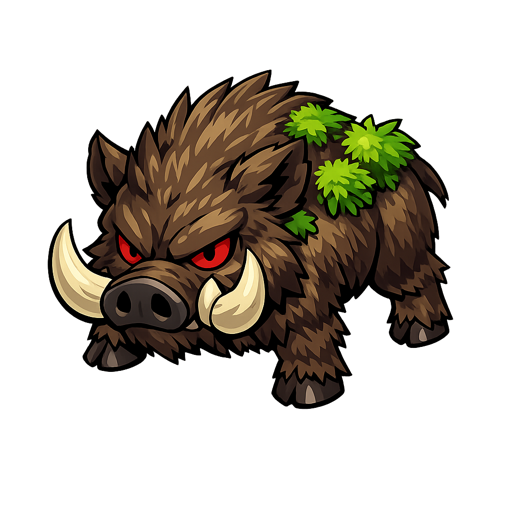
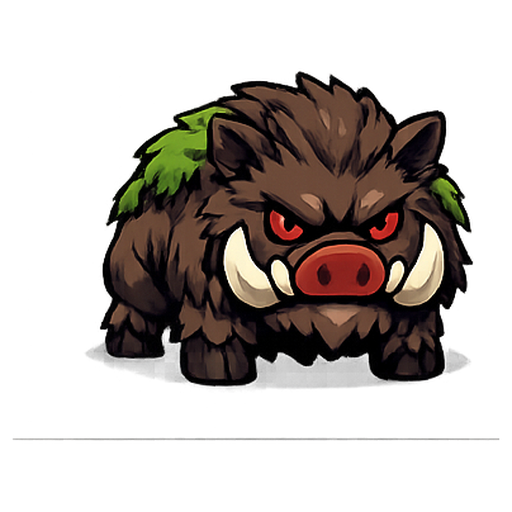
몬스터 스프라이트 개선: 슬라임/멧돼지/잔디기사 새 이미지 + 피격 프레임 추가
- 슬라임: 좌우 흔들림 idle 4프레임 + 피격 2프레임 (><표정, 찌그러짐)
- 멧돼지: 정면 고정 쿵쿵 걷기 4프레임 + 피격 2프레임
- 잔디기사: 팔다리 걷기 모션 4프레임 + 피격 2프레임 (투구 변형)
- monster.gd: 피격 프레임 재생 시스템 추가 (hit_frame_start/count)
- monster.gd: flip_h 방향 수정 (플레이어 방향 올바르게 바라봄)
- monster_spawner.gd: 슬라임/멧돼지/잔디기사 idle/hit 프레임 config 추가
- 프롬프트 문서 업데이트 (멧돼지 정면 고정, 잔디기사 팔다리 걷기)

diff --git a/docs/image_prompts.md b/docs/image_prompts.md
@@ -80,18 +80,18 @@
 >
 > Character design: An oversized mutant boar. Muscular body with dark brown coarse fur. Patches of green moss and grass growing on its back and shoulders. Two large curved tusks protruding from the mouth. Red angry eyes. Exaggerated muscular build with legs splayed outward. Thick dark outline. Chibi proportions, flat cel-shaded colors, mobile game art style. 3/4 top-down view.
 >
-> Row 1 (Frames 1-4): Gentle wobbling walk animation loop (1→2→3→4→1):
-> - Frame 1 (Neutral): Standing still, neutral pose. Legs splayed, body symmetrical.
-> - Frame 2 (Slight lean left): Body leans very slightly to the left, about 5 degrees only. Weight shifted subtly leftward. Almost the same as frame 1 but with a tiny leftward tilt.
-> - Frame 3 (Neutral): Same as frame 1. Back to center, perfectly symmetrical.
-> - Frame 4 (Slight lean right): Body leans very slightly to the right, about 5 degrees only. Mirror of frame 2. Weight shifted subtly rightward.
+> Row 1 (Frames 1-4): Stomping walk animation loop (1→2→3→4→1). The boar always faces the same direction (forward/front-facing) in all frames. Only the legs and body height change to create a heavy stomping walk:
+> - Frame 1 (Neutral): Standing still, front-facing. Legs splayed, body at normal height.
+> - Frame 2 (Left stomp): Left front leg raised slightly, right front leg planted. Body dips down very slightly on the right side (~5%). A heavy, lumbering step. Face still looking straight forward.
+> - Frame 3 (Neutral): Same as frame 1. Both legs planted, body level. Passing through neutral.
+> - Frame 4 (Right stomp): Right front leg raised slightly, left front leg planted. Body dips down very slightly on the left side (~5%). Mirror leg pose of frame 2. Face still looking straight forward.
 >
 > Row 2 (Frames 5-6: Hit reaction, Frames 7-8: empty):
-> - Frame 5 (Hit squash): Body crouches down violently — about 30% shorter and 25% wider. Eyes squeezed shut tight in pain, mouth open showing tusks. Pained expression. Legs buckled, flattened as if slammed from above.
-> - Frame 6 (Hit rebound): Body snaps back to roughly neutral height. Eyes still scrunched with a dazed/stunned look. Recovering from the hit.
+> - Frame 5 (Hit squash): Body crouches down violently — about 30% shorter and 25% wider. Eyes squeezed shut tight in pain, mouth open showing tusks. Pained expression. Legs buckled, flattened as if slammed from above. Still facing forward.
+> - Frame 6 (Hit rebound): Body snaps back to roughly neutral height. Eyes still scrunched with a dazed/stunned look. Still facing forward. Recovering from the hit.
 > - Frames 7-8: Leave completely empty (transparent).
 >
-> Important: The wobble in frames 1-4 should be very subtle. All frames must have identical dark brown fur colors, moss patches, tusks, and art style. Frames 1-4 share the same angry face. Frames 5-6 have a pained face. No glow effects, no dust, no particles. Clean solid body only.
+> Important: The boar must face the SAME direction (front-facing) in ALL 6 frames. Never show the boar turning or looking left/right. All frames must have identical dark brown fur colors, moss patches, tusks, and art style. Frames 1-4 share the same angry face. Frames 5-6 have a pained face. No glow effects, no dust, no particles. Clean solid body only.
 
 ---
 
@@ -107,18 +107,18 @@
 >
 > Character design: A humanoid knight made of woven grass and plant fiber. Armor plates of compressed green leaves and bark. Small flowers and weeds sprouting from joints and gaps in the armor. Holds a sharpened grass blade sword in right hand. T-shaped helmet visor with dark empty interior (no face visible). Thick dark outline. Chibi proportions, flat cel-shaded colors, mobile game art style. 3/4 top-down view.
 >
-> Row 1 (Frames 1-4): Gentle wobbling walk animation loop (1→2→3→4→1):
-> - Frame 1 (Neutral): Standing upright, neutral pose. Sword held at side.
-> - Frame 2 (Slight lean left): Entire body leans very slightly to the left, about 5 degrees only. Sword tilts with the body. Almost the same as frame 1.
-> - Frame 3 (Neutral): Same as frame 1. Back to center, standing upright.
-> - Frame 4 (Slight lean right): Entire body leans very slightly to the right, about 5 degrees only. Mirror of frame 2.
+> Row 1 (Frames 1-4): Walking animation loop (1→2→3→4→1). The head and torso stay stable — only the arms and legs move to create a shuffling walk cycle:
+> - Frame 1 (Neutral): Standing upright, neutral pose. Both arms at sides, sword in right hand pointing down. Legs straight, feet together.
+> - Frame 2 (Left step): Left leg steps forward, right leg back. Left arm (free hand) swings slightly forward, right arm (sword) swings slightly back. Head and torso remain perfectly upright and unchanged.
+> - Frame 3 (Neutral): Same as frame 1. Both legs together, arms at sides. Passing through neutral.
+> - Frame 4 (Right step): Right leg steps forward, left leg back. Right arm (sword) swings slightly forward, left arm swings slightly back. Mirror of frame 2. Head and torso remain perfectly upright and unchanged.
 >
 > Row 2 (Frames 5-6: Hit reaction, Frames 7-8: empty):
-> - Frame 5 (Hit squash): Body crouches down — about 25% shorter, knees bent, wider stance. Helmet tilts forward, body recoils. Leaves scatter slightly from the armor edges. Damaged, staggered pose.
-> - Frame 6 (Hit rebound): Body snaps back upright. Slightly wobbling, recovering stance. Some leaves still displaced.
+> - Frame 5 (Hit stagger): Body crouches down — about 20% shorter, knees bent, wider stance. Helmet visor cracks slightly or dents inward, the dark T-shaped opening distorts a bit. Sword arm drops. Leaves scatter slightly from armor edges. Staggered, recoiling pose.
+> - Frame 6 (Hit recover): Body snaps back upright. Helmet visor still slightly bent/damaged looking. Sword raised back up but loosely. Recovering stance.
 > - Frames 7-8: Leave completely empty (transparent).
 >
-> Important: The wobble in frames 1-4 should be very subtle. All frames must have identical green leaf armor, bark textures, flower details, and art style. No glow effects, no particles, no sword trails. Clean solid body only.
+> Important: In frames 1-4, the head, helmet, and torso must stay stable and upright — only limbs move. All frames must have identical green leaf armor, bark textures, flower details, and art style. No glow effects, no particles, no sword trails. Clean solid body only.
 
 ---
 
